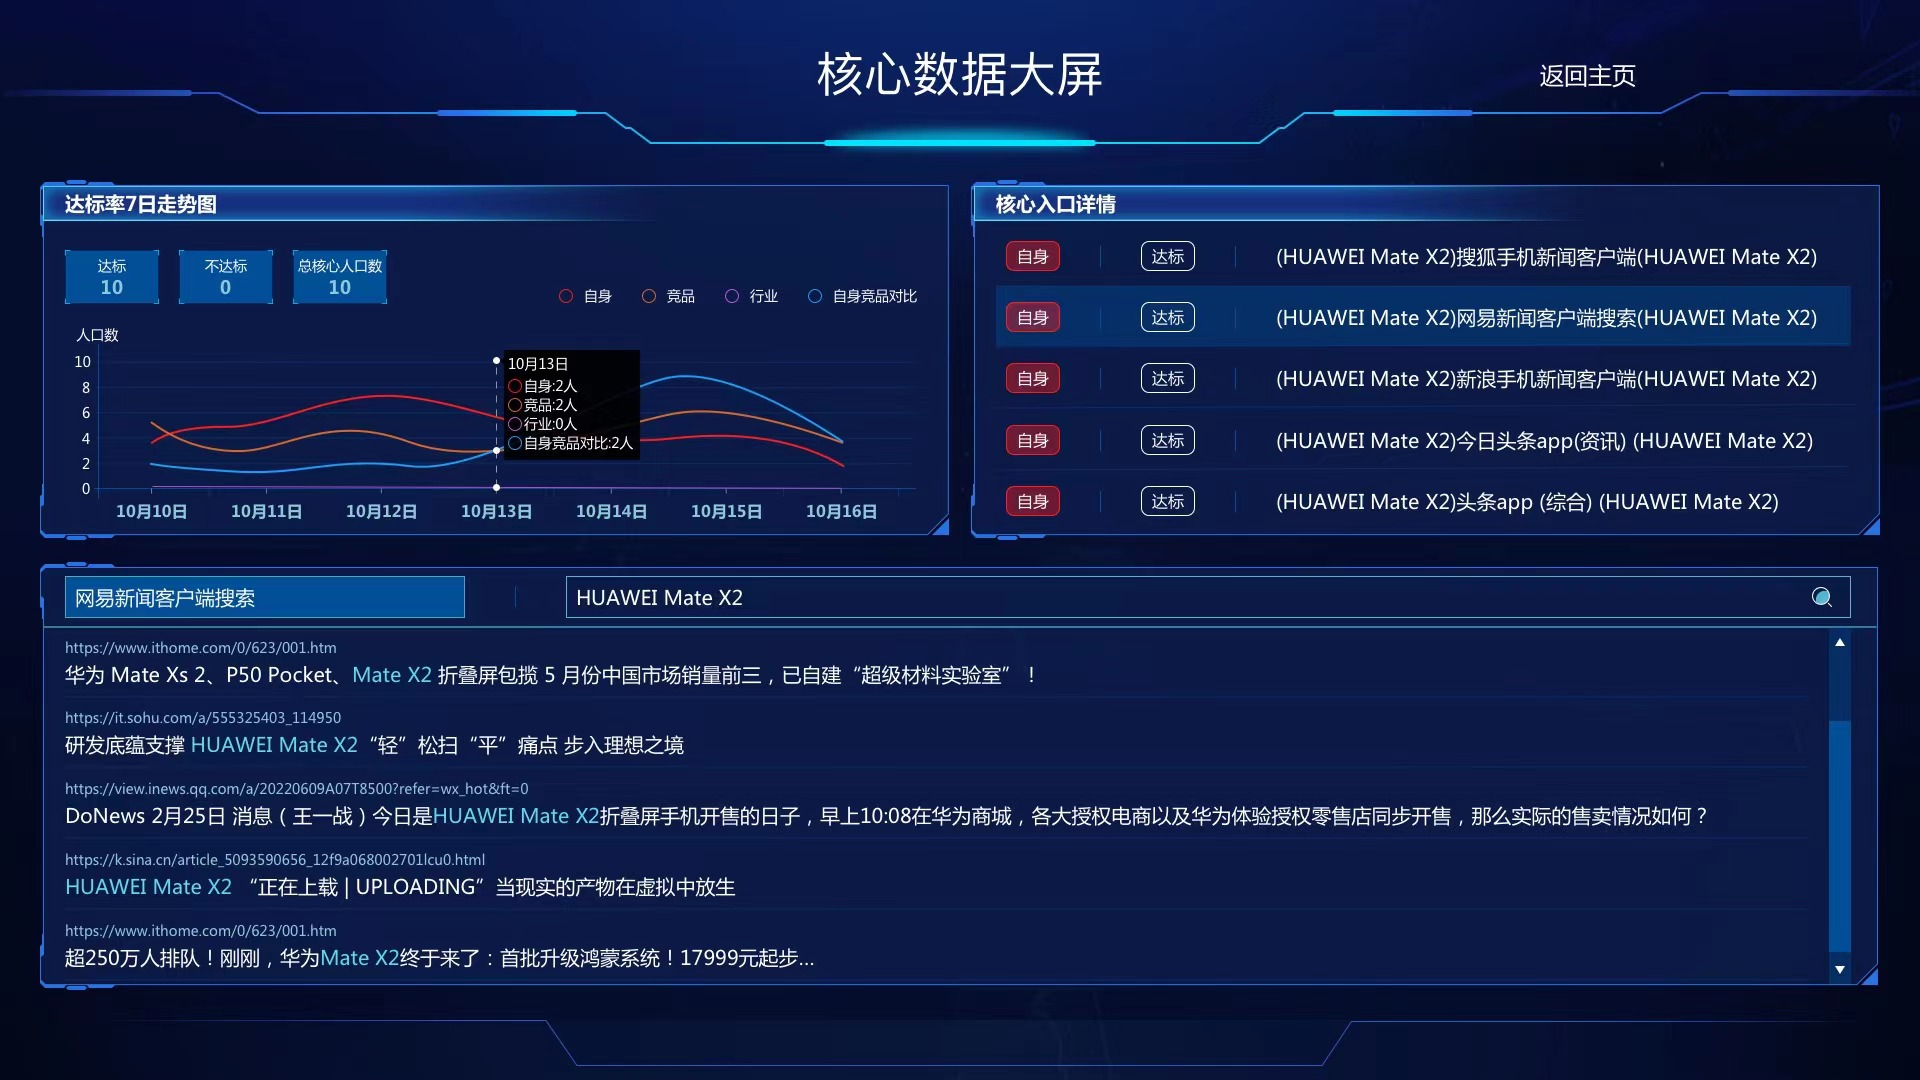
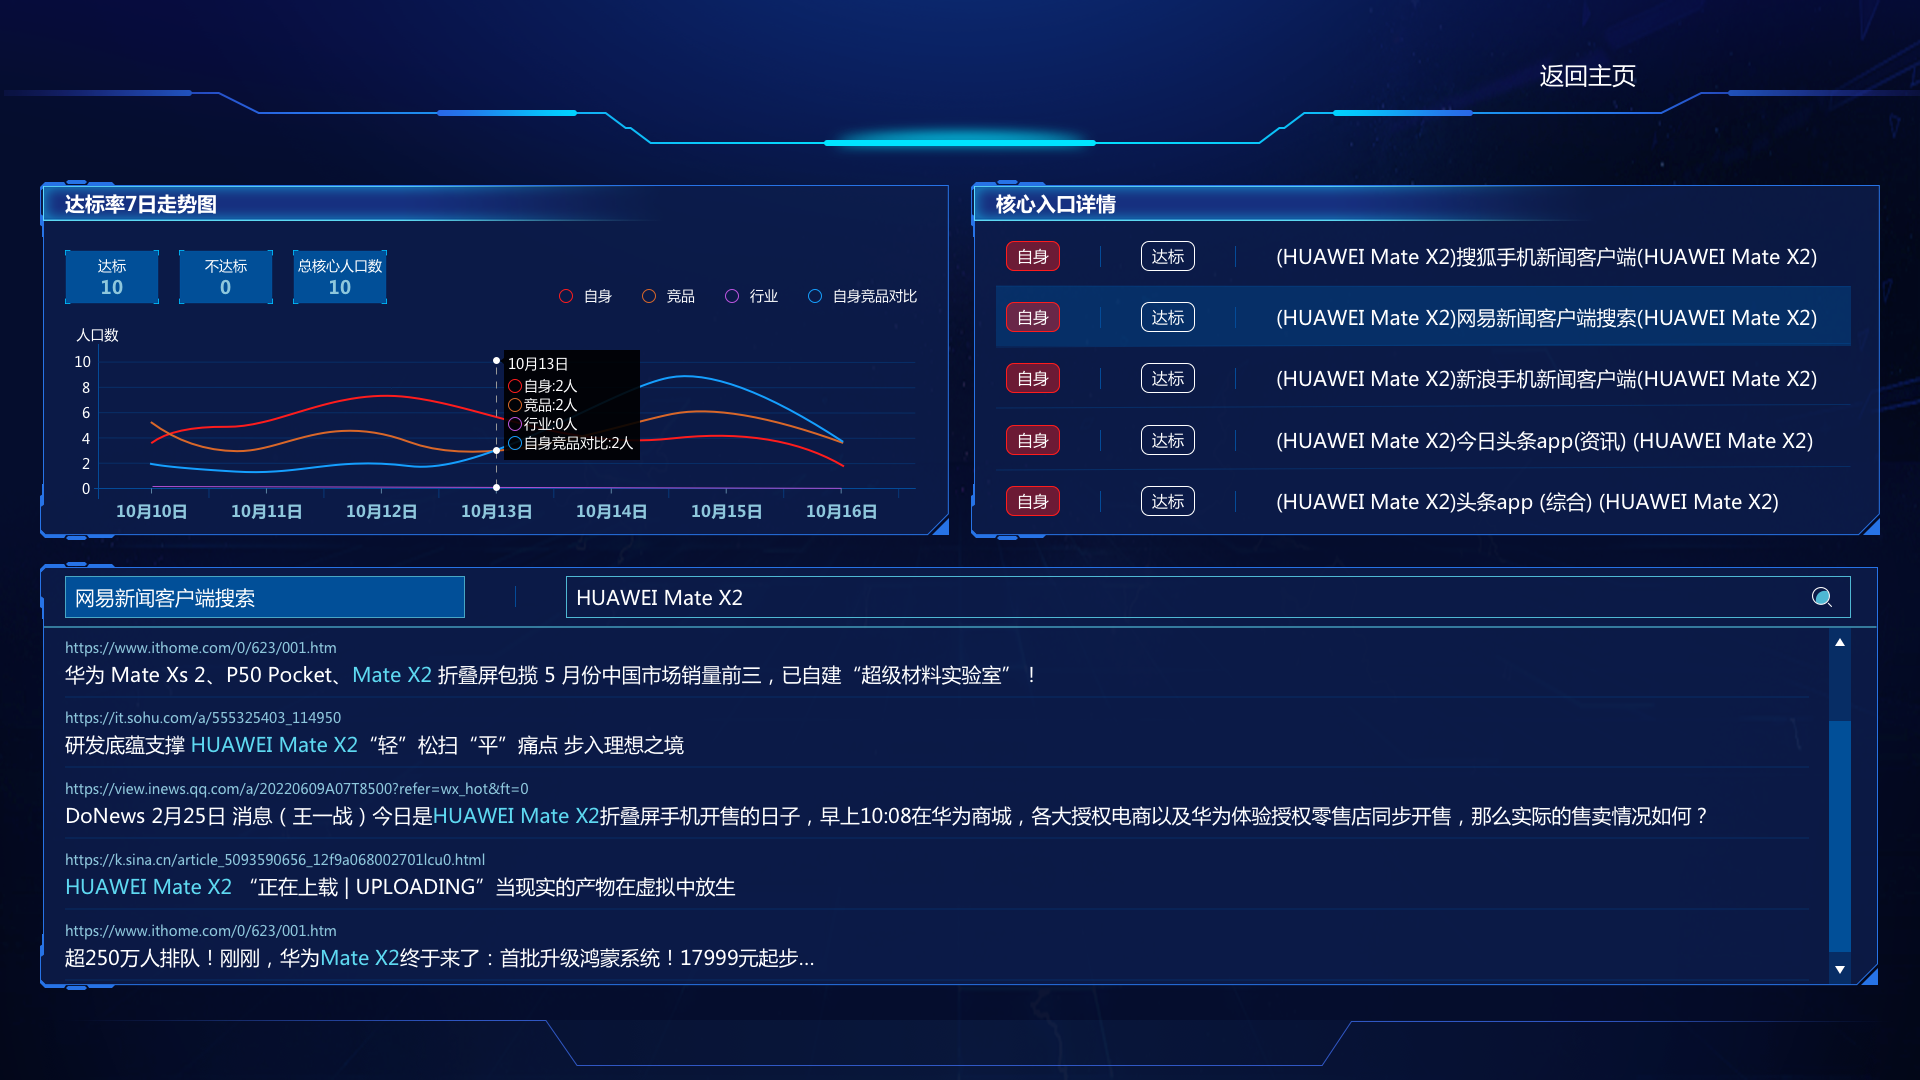
优化代码逻辑

diff --git a/js/private/second.js b/js/private/second.js
@@ -1,4 +1,4 @@
-window.onload = function() {
+window.onload = function () {
 	var vm = new Vue({
 		el: '#second',
 		data: {
@@ -13,21 +13,24 @@ window.onload = function() {
 			saveUrl: "/categoryScreenConfig/save",
 			/* 保存大屏配置路径 */
 			queryCategoryUrl: "/category/get",
-			num: 0
+			categoryUrl:"/category/getById",
+			num: 0,
+			categoryName: "",
 		},
 
-		created: function() {
+		created: function () {
 
 		},
-		mounted: function() {
+		mounted: function () {
 			this.FnList()
 			this.FnUser()
+			this.FnCategory()
 		},
 		methods: {
 			/* 退出 */
-			FnLogOut: function() {
+			FnLogOut: function () {
 				var logOutUrl = domainUrl + this.logOutUrl
-				getMessage(logOutUrl).then(function(res) {
+				getMessage(logOutUrl).then(function (res) {
 					if (res.code == 200) {
 						location.href = "./login.html"
 					} else {
@@ -36,12 +39,12 @@ window.onload = function() {
 				})
 			},
 			/* 修改标题保存接口 */
-			FnFlag: function(val) {
+			FnFlag: function (val) {
 				val.editFlag = 2
 				val.label = "确定"
 				val.icon = "img/second/finsh.png"
 			},
-			FnFlagTrue: function(val) {
+			FnFlagTrue: function (val) {
 				var that = this
 				var saveUrl = domainUrl + this.saveUrl
 				postMessage(saveUrl, {
@@ -50,7 +53,7 @@ window.onload = function() {
 					name: val.title,
 					type: val.type
 
-				}, "application/json").then(function(res) {
+				}, "application/json").then(function (res) {
 					if (res.code == 200) {
 						that.FnList()
 					} else {
@@ -59,10 +62,10 @@ window.onload = function() {
 				})
 			},
 			/* 获取列表 */
-			FnList: function() {
+			FnList: function () {
 				var that = this
 				var listUrl = domainUrl + this.listUrl + getQuery("cid");
-				getMessage(listUrl).then(function(res) {
+				getMessage(listUrl).then(function (res) {
 					if (res.code == 200) {
 						that.picList = [];
 						res.data.forEach(item => {
@@ -89,21 +92,32 @@ window.onload = function() {
 					}
 				})
 			},
-			FnLink: function(link) {
+			FnLink: function (link) {
 				location.href = link
 			},
 			/* 获取当前用户 */
-			FnUser: function() {
+			FnUser: function () {
 				var that = this
 				var useUrl = domainUrl + this.useUrl
-				getMessage(useUrl).then(function(res) {
+				getMessage(useUrl).then(function (res) {
 					if (res.code == 200) {
 						that.userName = res.data
 					} else {
 						alert(res.message)
 					}
 				})
-			}
+			},
+			FnCategory: function () {
+				var that = this;
+				var categoryUrl = domainUrl + this.categoryUrl + "?categoryId=" + getQuery("cid");
+				getMessage(categoryUrl).then(function (res) {
+					if (res.code == 200) {
+						that.categoryName = res.name;
+					} else {
+						alert(res.message)
+					}
+				})
+			},
 		}
 
 	})

diff --git a/second.html b/second.html
@@ -2,7 +2,7 @@
 <html>
 	<head>
 		<meta charset="utf-8">
-		<title>华为P50项目大屏</title>
+		<title>华为{{categoryName}}项目大屏</title>
 		<link rel="stylesheet" type="text/css" href="css/public/element.css"/>
 		<link rel="stylesheet" type="text/css" href="css/private/second.css" />
 		<link rel="stylesheet" type="text/css" href="css/public/public.css" />
@@ -10,7 +10,7 @@
 	<body>
 		<div id="second" class="second pub_class" v-cloak>
 			<div class="title">
-				<span class="tit_text">华为P50项目大屏</span>
+				<span class="tit_text">华为{{categoryName}}项目大屏</span>
 				<div class="right_btn">
 					<span class="user"><img src="img/second/user.png" ><i>{{userName}}</i></span>
 					<span class="log_out" @click="FnLogOut">退出</span>
